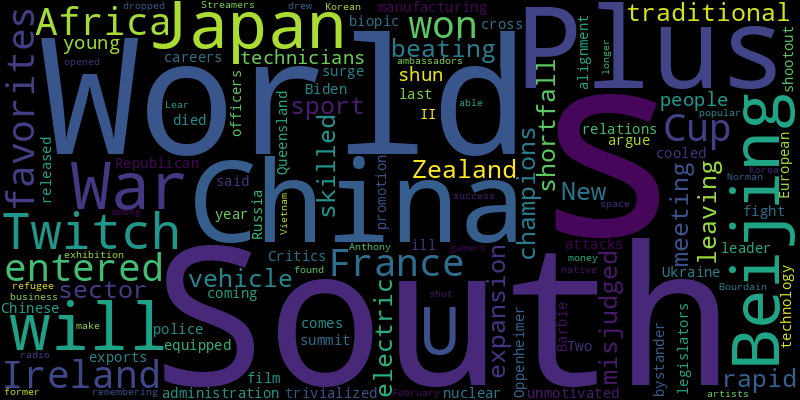
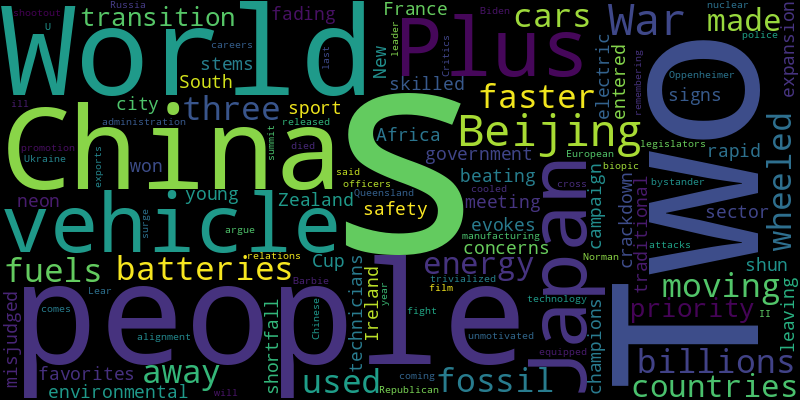
chore(bot): 😂 auto commit

diff --git a/README.md b/README.md
@@ -2,32 +2,34 @@
 Auto RSS New York Times and Generate Word Cloud
 
 ## New York Times Global News
-* The Israeli military posted unverified videos and maps that it claims showed rockets had been fired from areas in southern Gaza where civilians were seeking shelter.
-* The government said a group linked to Russia’s intelligence service carried out sustained operations to undermine trust in Britain’s political system.
-* Israel has recovered a trove of material that its military has used to assess the extent of the group’s attack plans, and its tactics and abilities, information reviewed by The Times shows.
-* The two rivals have been at the brink of military conflict several times in recent decades. An agreement signed by the countries’ leaders on Thursday aims to change that.
-* Human Rights Watch found that the slain journalist and six colleagues were not near active fighting in southern Lebanon and would have been clearly visible to Israeli forces.
-* A former speaker of the U.S. House and the British prime minister have struggled to corral the extreme right factions of their parties.
-* The government in Kyiv remains hopeful of further American assistance, but it is also looking to other resources — and trying to make clear what could be at stake.
-* Seychelles declared a state of emergency after the explosion, which came on the heels of deadly flooding in the country.
-* The winner of the contest is widely seen as a foregone conclusion: Vladimir V. Putin.
-* A border blockade by haulers angry that the European Union has suspended a permit system for their Ukrainian counterparts has led to problems with deliveries of wartime supplies.
+* A government crackdown on neon signs stems from safety and environmental concerns, but the campaign evokes the fading of the city itself.
+* The annual U.N. talks have brought the rare spectacle of limited protests to the politically repressive United Arab Emirates.
+* With millions-long lines for routine surgery, it has become more common for patients to pay for procedures. That carries risks for the future of the treasured public system.
+* A man with close ties to the Kremlin went looking for and found the remains of World War I Russian soldiers in France. Moscow hopes to use the discovery for diplomatic purposes.
+* Rights groups and aid organizations criticized a U.S. decision at the United Nations Security Council to block a resolution for an immediate cease-fire in Gaza.
+* The veto came amid a warning that “civil order is breaking down” in Gaza, and a day after the Biden administration warned that Israel’s military had not done enough to reduce harm to civilians.
+* The Iranian-backed militia in Yemen has launched drone and missile attacks on Israeli and American targets. American officials fear the group could go too far and incite a wider war.
+* The teacher, Samuel Paty, was beheaded in 2020 by an Islamist extremist after showing caricatures of the Prophet Muhammad to his students to illustrate free speech.
+* The announcement was long expected after the Constitution was amended in 2020, effectively allowing the Russian leader to stay in power until 2036.
+* The men created extremist manifestoes and recruiting videos, officials say.
 
 ![Global](./global.png)
 ## New York Times United States News
-* Congress has opened an investigation into Harvard, M.I.T. and University of Pennsylvania, a $100 million gift was withdrawn, and demands have grown for the universities’ presidents to resign.
-* The 67-year-old gunman taught at East Carolina University for nearly 16 years and had a target list of faculty members there and at U.N.LV., the police said.
-* A state court judge said a woman whose fetus was diagnosed with a fatal condition could legally obtain an abortion despite the state’s bans.
-* The state heads into next year with projections of one of its worst budget deficits since the early 1990s recession. Reserves should help cushion the blow.
-* The nonpartisan race to lead the nation’s fourth-largest city ends Saturday in a runoff between two longtime Democrats who have sparred over public safety.
-* The director of the Council on American-Islamic Relations said in a speech that he was “was happy to see” Palestinians break out of Gaza on the day Hamas attacked Israel.
-* Two off-duty police officers from New York and two visitors intervened. The woman was arrested and charged with attempted arson, Atlanta police said.
-* The Justice Department charged President Biden’s son after a long-running and wide-ranging investigation with substantial political repercussions.
-* Ian Cramer, the son of Senator Kevin Cramer of North Dakota, led police on a car chase in North Dakota on Wednesday.
-* The new Republican speaker is facing fury from ultraconservative lawmakers for agreeing to drop limits on abortion, transgender care and diversity training.
+* Cease-fire activists hope that city council resolutions will send a message to the White House. One problem: local officials have little power.
+* The court, responding to an appeal from Attorney General Ken Paxton, put on hold a lower court order allowing an abortion for a woman whose fetus has a fatal condition.
+* The gunman, who carried out the deadliest high school shooting in the history of the state, will not be eligible for parole.
+* The president, Claudine Gay, told the campus newspaper that she “should have had the presence of mind” to answer differently.
+* A commission is weighing 6 finalists, and a new state flag could be flying in Minnesota by sometime next year.
+* Current and former European diplomats said there was growing concern a second Trump presidency could mean an American retreat from the continent and a gutting of NATO.
+* In her first campaign stop since Wednesday’s heated Republican debate, Ms. Haley suggested that fierce criticism from her opponents continued to not be worth her time.
+* The president openly attacked his predecessor, former President Donald J. Trump, deploying direct criticism he has frequently avoided, at an event announcing billions for high-speed rail service.
+* The Biden administration is pressing Israel to do more to protect civilians. But it has not publicly discussed any consequences if it does not.
+* Kevin M. Guskiewicz of the University of North Carolina is to become Michigan State University’s sixth president in six years.
 
 ![US](./usnews.png)
 ## New York Times Asia News
+* Two- and three-wheeled vehicles, used by billions of people, are moving away from fossil fuels to batteries faster than cars in countries that have made the energy transition a priority.
+* A government crackdown on neon signs stems from safety and environmental concerns, but the campaign evokes the fading of the city itself.
 * Ireland and France entered the World Cup as favorites, but South Africa won it by beating New Zealand in a meeting of the sport’s traditional champions.
 * China misjudged the rapid expansion of its electric vehicle sector, leaving a shortfall of skilled technicians as young people shun manufacturing careers.
 * Plus, “Oppenheimer” is coming to Japan.
@@ -36,7 +38,5 @@ Auto RSS New York Times and Generate Word Cloud
 * The European summit with China’s leader comes as relations have cooled over Beijing’s alignment with Russia in its war on Ukraine and a surge in Chinese exports.
 * Two police officers and a bystander died in the shootout in Queensland last year.
 * Plus, remembering Norman Lear.
-* A former refugee who found radio success in the U.S., he opened an exhibition space in his native Vietnam that drew artists and ambassadors. Anthony Bourdain dropped in.
-* Twitch, once popular among South Korean gamers, will shut its business there in February. Streamers in South Korea would no longer be able to make money through Twitch.
 
 ![Asian](./asian.png)
